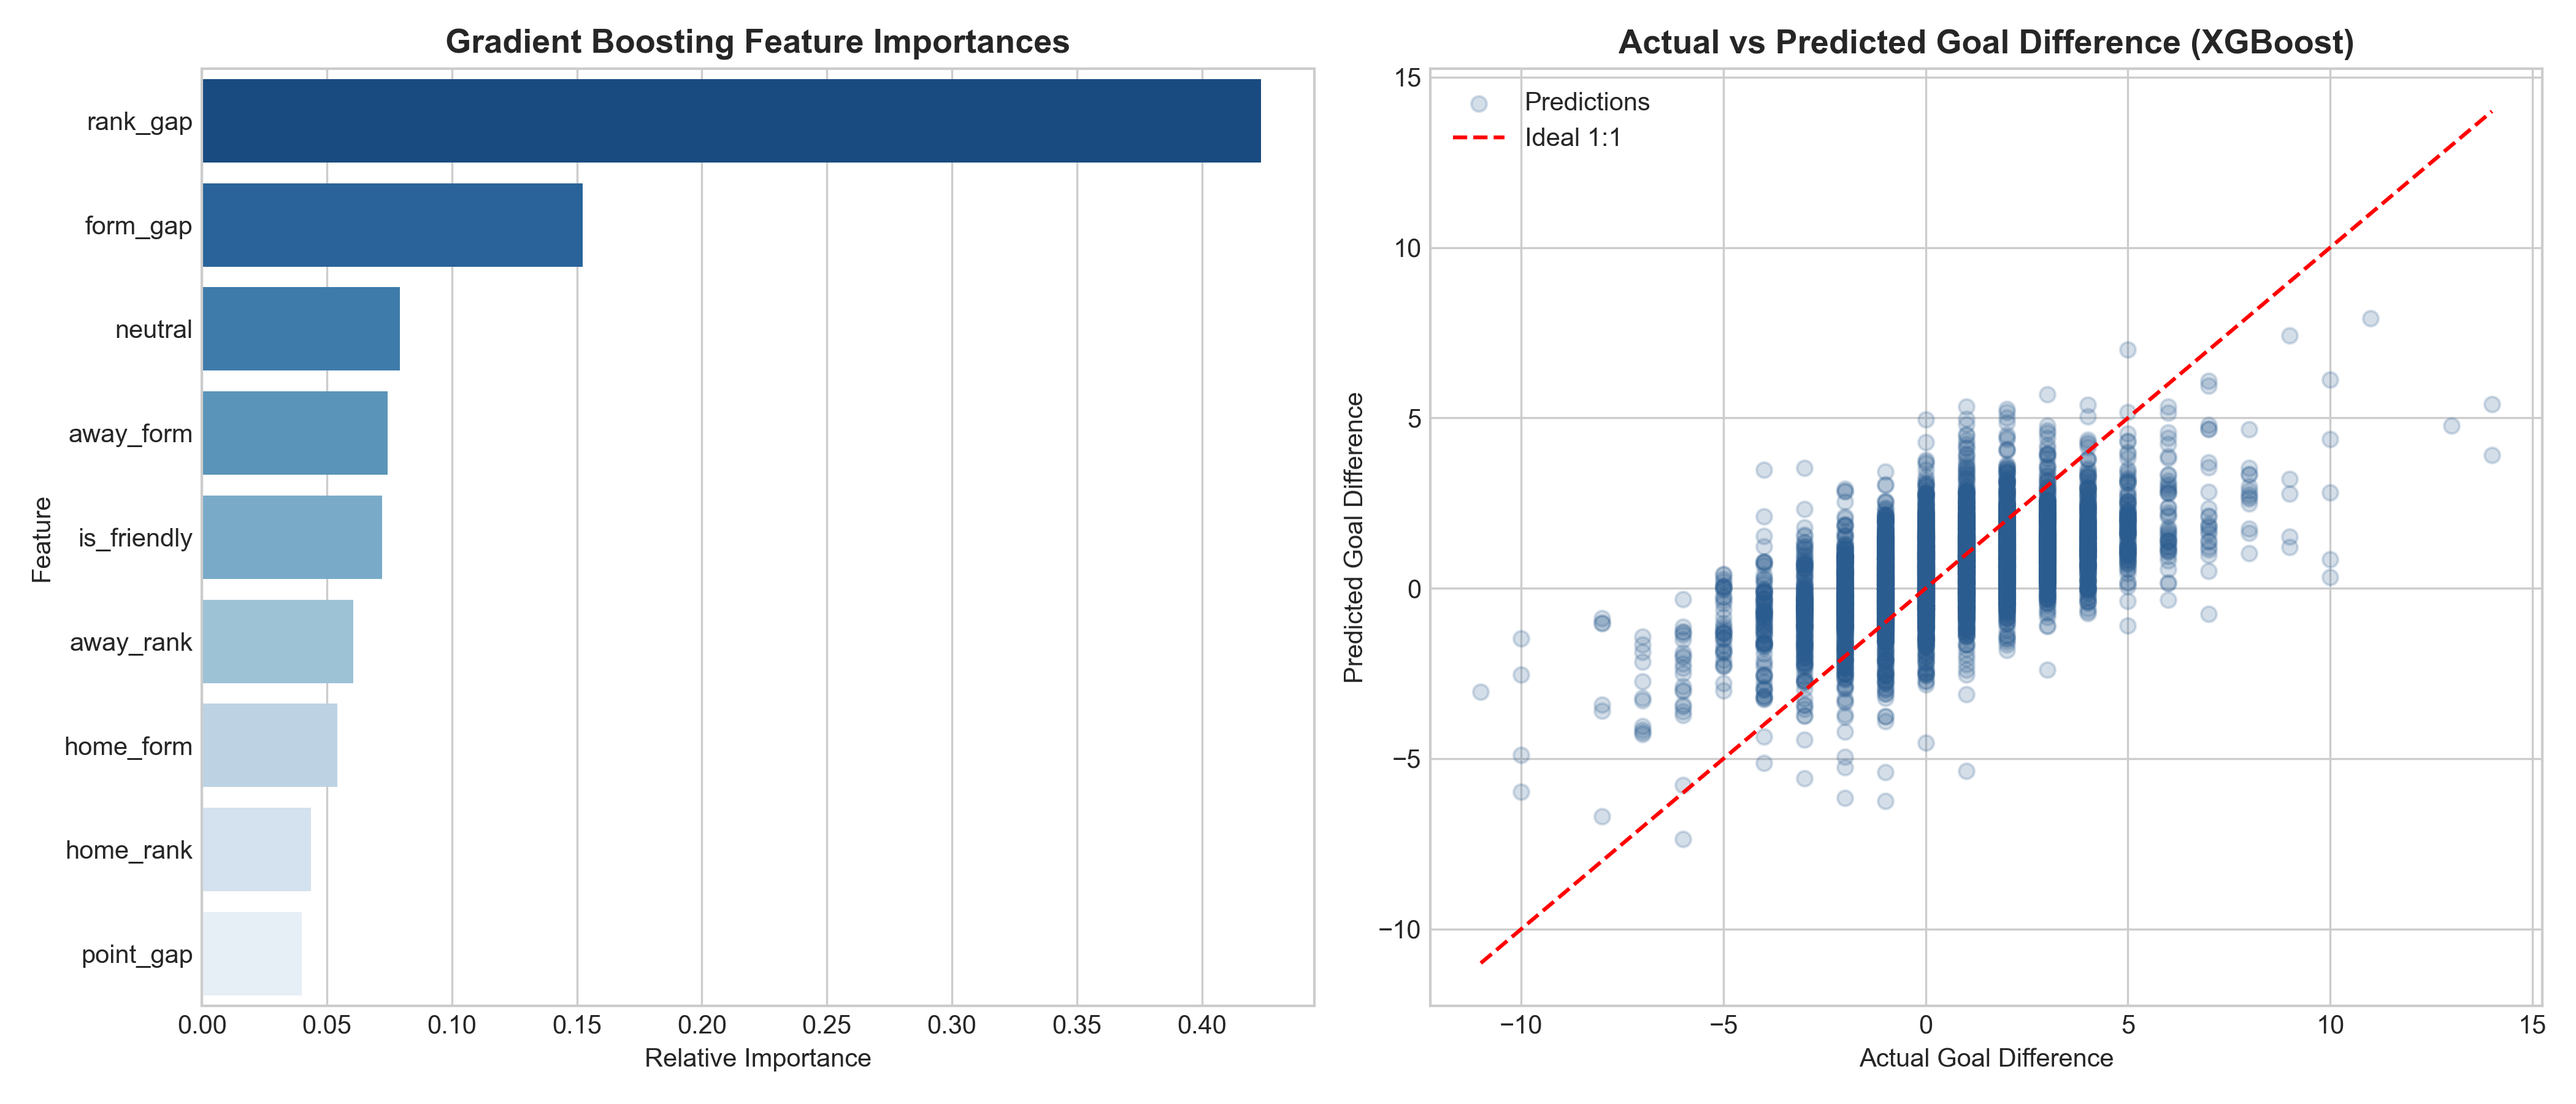
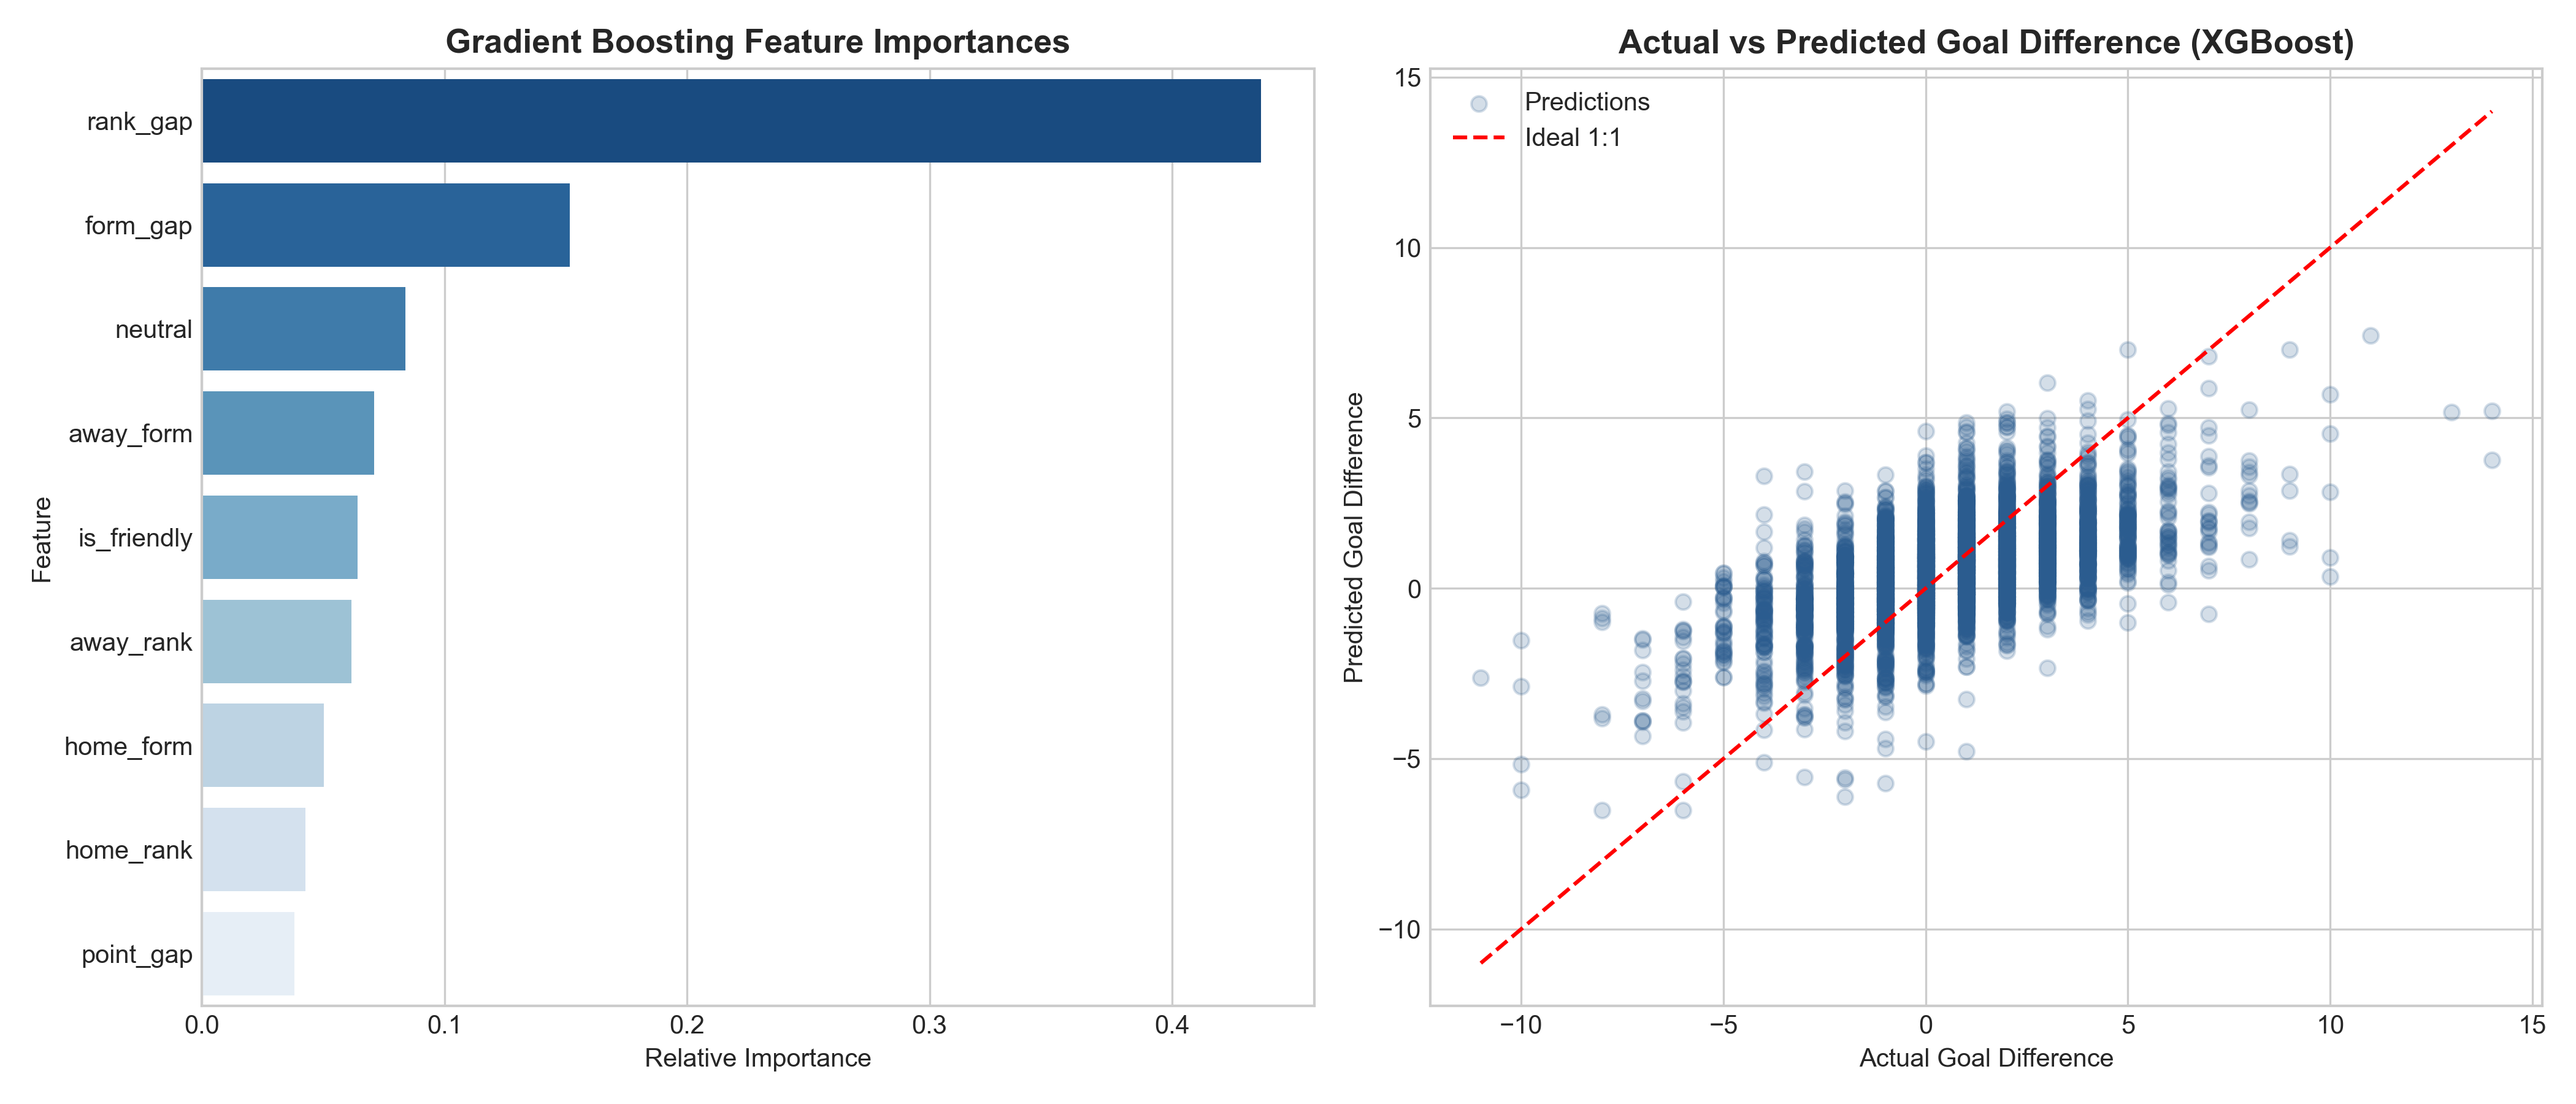
added hypothesis_testing

diff --git a/src/eda_hypothesis_testing.py b/src/eda_hypothesis_testing.py
@@ -120,6 +120,31 @@ def perform_hypothesis_testing(df):
     print(ols_model.summary().tables[1])
     print(f"Overall Model R-squared: {ols_model.rsquared:.4f}, F-statistic p-value: {ols_model.f_pvalue:.4e}")
 
+    # Generate Figure: Hypothesis Testing Barplot (Mean Home Goal Advantage by Venue Type)
+    plt.figure(figsize=(8, 6))
+    ax = sns.barplot(
+        x='neutral',
+        y='goal_difference',
+        data=df,
+        palette=['#2b5c8f', '#d95f02'],
+        hue='neutral',
+        legend=False,
+        errorbar=('ci', 95),
+        capsize=0.1
+    )
+    ax.set_xticks([0, 1])
+    ax.set_xticklabels(['True Home Fixture', 'Neutral Venue'], fontsize=11)
+    ax.set_xlabel('Venue Type', fontsize=12, fontweight='bold')
+    ax.set_ylabel('Mean Goal Differential', fontsize=12, fontweight='bold')
+    ax.axhline(0, color='black', linestyle='--', linewidth=1.2, label='Baseline (y=0)')
+    ax.set_title('Mean Home Goal Advantage by Venue Type (with 95% CIs)', fontsize=14, fontweight='bold', pad=15)
+    
+    plt.tight_layout()
+    fig_path_jpeg = os.path.join(REPORTS_DIR, 'hypothesis_testing.jpeg')
+    plt.savefig(fig_path_jpeg, dpi=300)
+    plt.close()
+    print(f"\nSaved hypothesis testing plot to {fig_path_jpeg}")
+
 def main():
     data_path = os.path.join(PROCESSED_DATA_DIR, 'clean_soccer_data.csv')
     df = pd.read_csv(data_path)
